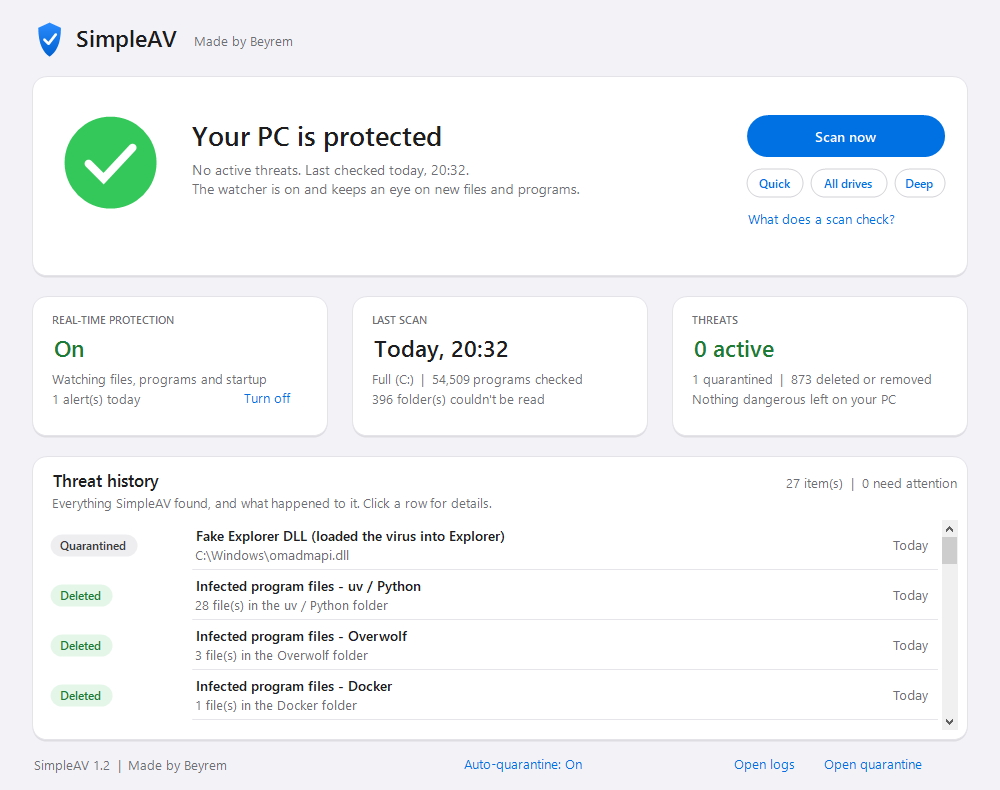
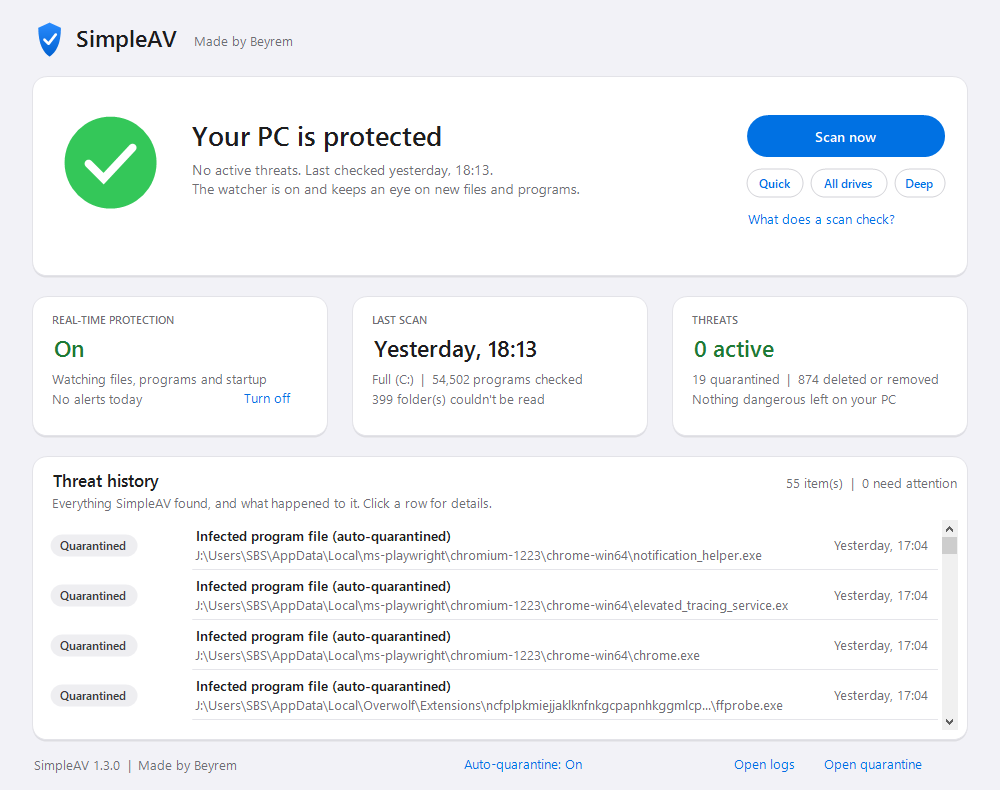
Honest AI attribution, two more documented limits, ExecutionPolicy note, fresh screenshot

diff --git a/README.md b/README.md
@@ -182,6 +182,9 @@ triggers an admin prompt.
   read, so nothing is skipped silently.
 - **No dependencies.** It's plain PowerShell 5.1 + .NET, both signed by Microsoft and on every Windows 10/11 PC. A
   tool that cleans an infected machine shouldn't depend on programs the infection may have modified.
+- **Why `-ExecutionPolicy Bypass`.** The scripts aren't code-signed, and Windows' execution policy is a guard against
+  running scripts by accident, not a security boundary (Microsoft says so itself). SimpleAV protects its own files
+  differently: it records their SHA-256 at install and warns if any of them changes.
 
 ---
 
@@ -275,6 +278,10 @@ SimpleAV is a focused tool, not a replacement for a full antivirus.
   the real fix is a clean Windows reinstall.
 - Quarantined files are renamed, not encrypted. They can't be opened by double-clicking, but a program that is
   pointed at the full path could still load one.
+- The first scan remembers every unsigned system file already present as "known". On a PC that is already infected,
+  read that first scan's log: anything malicious in that list won't be reported again.
+- The self-integrity hashes live in the same user folder as the scripts. They catch accidental or careless tampering,
+  but malware running as you could rewrite both.
 
 ## Project structure
 
@@ -292,9 +299,10 @@ docs/HOW-IT-WORKS.md          analysis of the infection and the detection logic
 
 ## Acknowledgements
 
-I built this with AI pair-programming assistance (Claude by Anthropic), which helped with the malware analysis,
-code and testing. The investigation, the decisions and the real-world cleanup were done on my own PC. The
-dashboard follows Apple's Human Interface Guidelines: one primary action, clear status, plain language.
+Much of the code and of the malware analysis was done with AI coding agents (Claude Code by Anthropic) under my
+direction; every commit says so. The infection, the investigation, the decisions and the real-world cleanup happened
+on my own PC. The dashboard follows Apple's Human Interface Guidelines: one primary action, clear status, plain
+language.
 
 ## License
 

diff --git a/CHANGELOG.md b/CHANGELOG.md
@@ -1,5 +1,8 @@
 # Changelog
 
+Versions 1.0 to 1.2 were built and used locally on the infected PC; this repository starts at 1.2.0, published
+on 2026-11-17.
+
 ## 1.3.0 - 2026-11-17
 Hardening after a code review, and after the infection came back on the PC this tool was built for.
 - **Shared detection core** (`src/SimpleAV.Detection.ps1`): the scanner and the dashboard now use one PE parser
